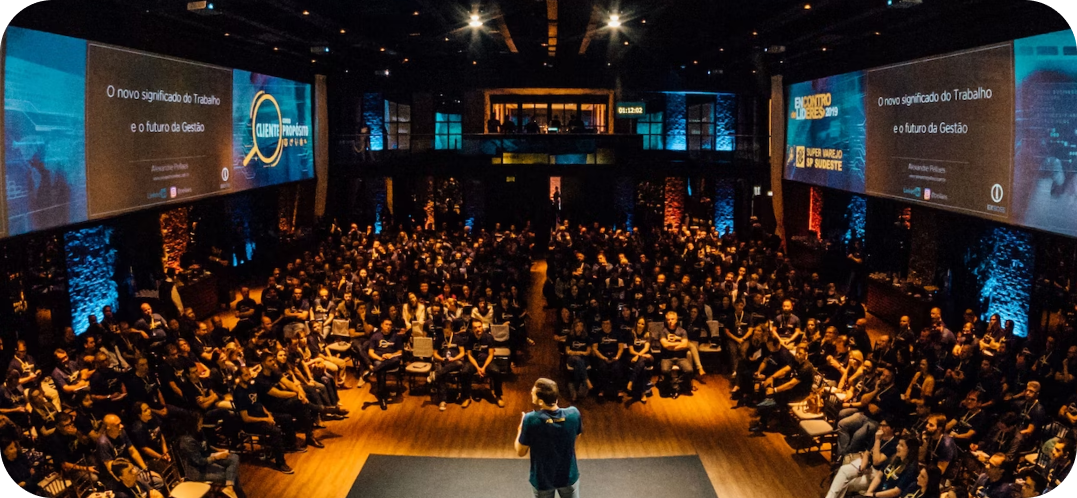
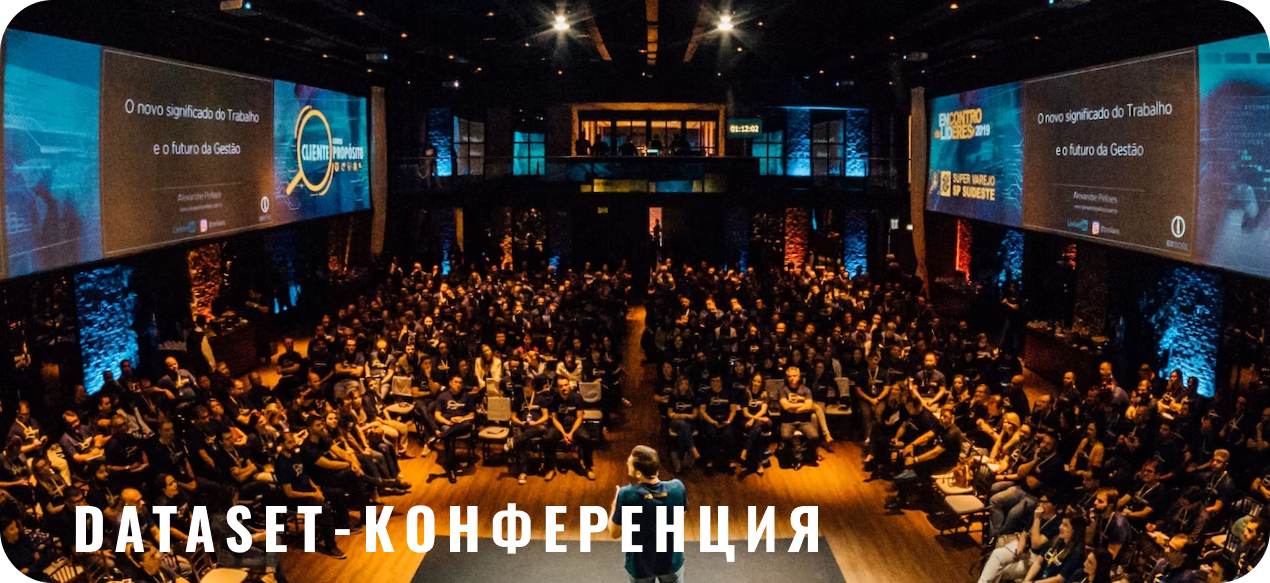
addphoto

diff --git a/src/components/Home-comp.vue b/src/components/Home-comp.vue
@@ -21,7 +21,7 @@
     <div class="description__lr">
      <div class="description__text">
         <h1>Место Встречи</h1>
-        <h3>выйди на новый уровень общения </h3>   
+        <h3>выйди на новый уровень общения, создавай встречи, находи новых знакомых  </h3>   
       </div> 
     </div>
 
@@ -29,6 +29,9 @@
 
   <div class="description">
    <router-link to="/areg" class="btn_rl">зарегистрироваться</router-link> 
+    <div class="strel">
+      <img src="../img/homestrel.png" alt=""/>
+    </div>
   </div>
 
   <div class="carousel1">
@@ -41,32 +44,24 @@
     <v-carouselTop :carousel_data="sliderTop"/> 
   </div>
 
-  <div><h2>КАТЕГОРИИ</h2></div>
-
-  <div class="categori">
-    <a href="" class="categori__el">спорт </a>
-    <a href="" class="categori__el">обучение</a>
-    <a href="" class="categori__el">дети</a>
-    <a href="" class="categori__el">наука</a>
-    <a href="" class="categori__el">музыка</a>
-    <a href="" class="categori__el">другое</a>
-  </div>
-
 </div>
   <footer class="footer">
       <div class="container">
-        <div class="footer__text">
-          <h3>О нас</h3> 
-          О компании
-          Контаакты
-          "Место Встречи" в соц. сетях
+        <div style="display: flex;">
+            <div class="footer__text">
+            <h3>О нас</h3> 
+            <p>О компании</p> 
+            <p>Контакты</p>
+            
+          </div>
+          <div class="footer__text">
+            <h3>"Место Встречи" в соц. сетях</h3> 
+            <img style="margin-left: 50px;" src="../img/icon/instagram.svg" alt="">
+            <img style="margin-left: 50px;" src="../img/icon/telegram.svg" alt="">
+            <img style="margin-left: 50px;" src="../img/icon/twitter.svg" alt="">
+          </div>
         </div>
-        <div class="footer__text">
-          О нас
-          О компании
-          Контаакты
-          "Место Встречи" в соц. сетях
-        </div>
+        
       </div>
     </footer>
   </div>
@@ -200,6 +195,7 @@ h3{
 .carousel1{
   margin-top: 30px;
   margin-bottom: 100px;
+  margin-left: 50px;
 }
 
 .carousel2{
@@ -207,51 +203,32 @@ h3{
   margin-bottom: 100px;
 }
 
-.categori{
-  display: flex;
-  flex-direction: column;
-  flex-wrap: wrap;
-  height: 700px;
-  max-width: 900px;
-  align-content: space-around;
-  justify-content: space-between;
-  margin-bottom: 60px;
-}
-a.categori__el {
-  height: 200px;
-  width: 350px;
-  display: flex;
-  font-family: auto;
-  font-size: 40px;
-  font-weight: bold;
-  color: rgb(0 0 0);
-  text-decoration: none;
-  -webkit-user-select: none;
-  -moz-user-select: none;
-  user-select: none;
-  outline: none;
-  /*border: 1px solid rgba(0,0,0,.1);*/
-  border-radius: 20px;
-  background: #B9B9B9;
-  transition: all .218s ease 0s;
-  justify-content: center;
-  align-items: center;
-}
-a.categori__el:hover {
-  color: rgb(24,24,24);
-  /*border: 1px solid rgb(198,198,198);*/
-  background: #a0a0a0 ;
-  box-shadow: 0 1px 2px rgba(0,0,0,.1);
-}
-a.categori__el:active {
-  color: rgb(51,51,51);
-  /*border: 1px solid rgb(204,204,204);*/
-  background: rgb(238,238,238);
-  box-shadow: 0 1px 2px rgba(0,0,0,.1) inset;
-}
 
 #texthover:hover{
   transition: all .218s ease 0s;
   color: rgb(238,238,238);
+}
+
+.strel{
+  width: 50px;
+  margin-right: 45%;
+  margin-top: 20px;
+}
+.strel img{
+  width: 50px;
+}
+
+.footer__text{
+  width: 350px;
+  margin-left: 20px;
+}
+
+.footer__text p{
+  color: var(--text-day, #000);
+font-size: 14px;
+font-family: Open Sans;
+line-height: 140%;
+letter-spacing: 2.94px;
+text-transform: uppercase;
 }
 </style>

diff --git a/src/components/About-comp.vue b/src/components/About-comp.vue
@@ -1,19 +1,24 @@
 <template>
     <div class="blufon">
-        
+        <router-link to="/" class="f2" href="">место встречи</router-link>
+        <div class="f3">
+        сибирский федеральный университет<br />Институт космических и информационных
+        технологий<br />кафедра вычислительной техники
+        </div>
+
+        <div class="f4">
+        МЕСТО ВСТРЕЧИ - проект, разработанный в качестве дипломной, бакалаврской
+        работы.<br /><br />разработчик: Черных Дарья Александровна<br /><br />Руководитель:
+        Сиротинина Наталья Юрьевна
+        </div>
     </div>
-    
 </template>
 
 <script>
-
-
-   
 </script>
 
-
 <style scoped>
-/*:-moz-submit-invalid.blufon{
+.blufon{
     display: flex;
     flex-direction: column;
     align-content: center;
@@ -25,6 +30,37 @@
     left: 0;
     width: 100%;
     height: 100%;
-}*/
-
+}
+.f2 {
+  color: var(--text-night, #e6e6e6);
+  text-align: left;
+  font: 500 16px/140% "Oswald", sans-serif;
+  text-transform: uppercase;
+  position: absolute;
+  left: 94px;
+  top: 50px;
+  text-decoration: none;
+}
+.f2:hover{
+  transition: all .300s ease 0s;
+  color: rgb(255, 255, 255);
+}
+.f3 {
+  color: var(--text-night, #e6e6e6);
+  text-align: center;
+  font: 500 24px/140% "Oswald", sans-serif;
+  text-transform: uppercase;
+  position: absolute;
+  margin: 0 auto; 
+  top: 388px;
+}
+.f4 {
+  color: var(--text-night, #e6e6e6);
+  text-align: left;
+  font: 500 16px/140% "Oswald", sans-serif;
+  /*text-transform: uppercase;*/
+  position: absolute;
+  left: 94px;
+  top: 600px;
+}
 </style>

diff --git a/src/components/v-carousel-item.vue b/src/components/v-carousel-item.vue
@@ -2,9 +2,17 @@
     <div class="v-carousel-item">
         <img :src="require('../img/carousel/' + item_data.img)" alt="">
         <div class="text_about">
-         <p v-if="item_data.id===1"> Настоящее хобби – это то, чем приятно заниматься всегда. Развивай своё творчество вместе с нами. </p>
-         <p v-else-if="item_data.id===2"> написать текст </p>
-         <p v-else-if="item_data.id===3"> написать текст </p>
+         <div v-if="item_data.id===1">
+            - организовывай собственные мероприятия <br>
+            - участвуй в мероприятиях других <br>
+            - посмотри, какие события сейчас рядом 
+            
+         </div>
+         <p v-else-if="item_data.id===2">- заводи новые знакомства <br>
+            - расширяй кругозор <br>
+            - ищи новые увлечения и хобби <br>
+            - учись и развивай своё творчество вместе с нами!  </p>
+         <p v-else-if="item_data.id===3">  Настоящее хобби – это то, чем приятно заниматься всегда </p>
          <p v-else> написать текст </p>
         
         </div>
@@ -43,7 +51,7 @@
     border-radius: 15px;
 }
 .text_about{
-    width: 300px;
+    width: 360px;
     font-family: 'Open Sans';
     font-style: normal;
     font-weight: 400;

diff --git a/src/components/v-carouselTop-item.vue b/src/components/v-carouselTop-item.vue
@@ -1,11 +1,17 @@
 <template>
     <div class="v-carousel-item">
         <img :src="require('../img/carousel/' + item_data.img)" alt="">
+    <!--
+        <div class="imgtext">
+         <p v-if="item_data.id===5">уроки танцев</p>
+         <p v-else-if="item_data.id===6">Dataset-конференция</p>
+         <p v-else-if="item_data.id===7">уроки танцев</p>
+    </div>
+    -->
     </div>
 </template>
 
 <script>
-    
     export default{
         name:"v-carousel-item",
         props: {
@@ -24,17 +30,30 @@
 <style scoped>
 .v-carousel-item{
    
-    width:900px ;
+    width:840px ;
     height: 450px ;
     display: flex;
     flex-direction: row;
     align-items: center;
     justify-content: space-around;
-   
 }
 .v-carousel-item img{
-    height: 450px;
-    width: 900px;
+    height: 430px;
+    width: 840px;
+   
+}
+.imgtext{
+    
+    
+}
+.imgtext p{
+    color: var(--text-2-day, #FFF);
+    text-align: center;
+    font-size: 48px;
+    font-family: Oswald;
+    font-weight: 700;
+    letter-spacing: 7.68px;
+    text-transform: uppercase;
     
 }
 </style>

diff --git a/src/components/Myprofile-comp.vue b/src/components/Myprofile-comp.vue
@@ -3,13 +3,13 @@
         <div class="cese__struct">
             <div class="left">
                 <div class="logname">
-                    <img src="../img/user.jpg" alt="">
-                <h1>Фамилия Имя</h1> 
+                    <img src="../img/icon/AVATAR.png" alt="">
+                <h1>Ирина Дымченко</h1> 
                 </div>
                 <div class="statistic">
                     <li>Город:<div class="statistic__all">Красноярск</div></li>
-                    <li>Возраст:<div class="statistic__win"></div>35</li>
-                    <li>Пол:<div class="statistic__defeat">М</div></li>
+                    <li>Возраст:<div class="statistic__win"></div>55</li>
+                    <li>Пол:<div class="statistic__defeat">ж</div></li>
                 </div>
                 
                 <div class="about">
@@ -69,7 +69,7 @@ h1{
     align-items: center;
     text-align: center;
     letter-spacing: 0.16em;
-    text-transform: uppercase;
+   
 
     color: #000000;
 

diff --git a/src/main.js b/src/main.js
@@ -10,6 +10,7 @@ import Err from './components/error-comp'
 import About from './components/About-comp'
 import Cart from './components/Card-comp'
 import CartEl from './components/CardEl-comp'
+import Addcard from './components/Addcard-comp'
 
 const router = createRouter( { 
     history: createWebHistory(),   
@@ -53,6 +54,12 @@ const router = createRouter( {
         name:'CartEl',
         component: CartEl
     },
+    {
+        path:'/Addcard',
+        name:'Addcard',
+        component: Addcard
+    },
+    
 ]
 });
 createApp(App)

diff --git a/src/App.vue b/src/App.vue
@@ -88,6 +88,7 @@ height: 100%;
   text-transform: uppercase;
   transition: all .218s ease 0s;
   color: rgb(52, 51, 51);
+  text-decoration: none;
 }
 .btn_rl:hover{
   background: #01adc0;

diff --git a/src/components/Areg-comp.vue b/src/components/Areg-comp.vue
@@ -68,6 +68,7 @@
     text-transform: uppercase;
     color: #000000;
     border: 1px solid #C6C6C6;
+    text-decoration: none;
 }
 .fonreg__btn{
     display: flex;

diff --git a/src/components/Reg-comp.vue b/src/components/Reg-comp.vue
@@ -87,6 +87,7 @@
     text-transform: uppercase;
     color: #000000;
     border: 1px solid #C6C6C6;
+    text-decoration: none;
 }
 .fonreg__btn{
     display: flex;

diff --git a/src/components/v-carouselTop.vue b/src/components/v-carouselTop.vue
@@ -56,7 +56,7 @@
 <style scoped>
 
 .wrapp{
-    width: 900px;
+    width: 840px;
     height: 450px;
     overflow: hidden;
     margin: 0 auto;

diff --git a/src/components/Addcard-comp.vue b/src/components/Addcard-comp.vue
@@ -1,0 +1,13 @@
+<template>
+    <div class="blufon">
+        
+    </div>
+</template>
+
+<script>
+</script>
+
+<style scoped>
+
+
+</style>
